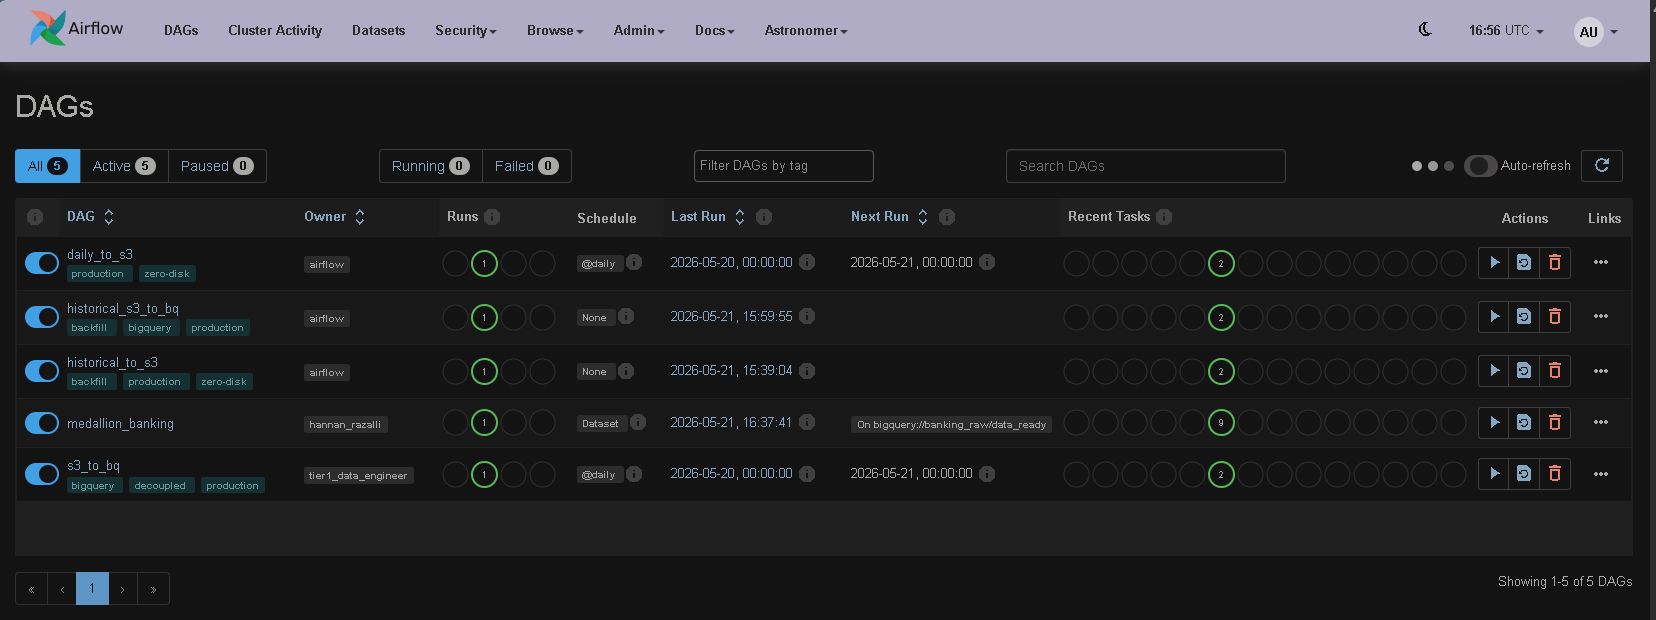
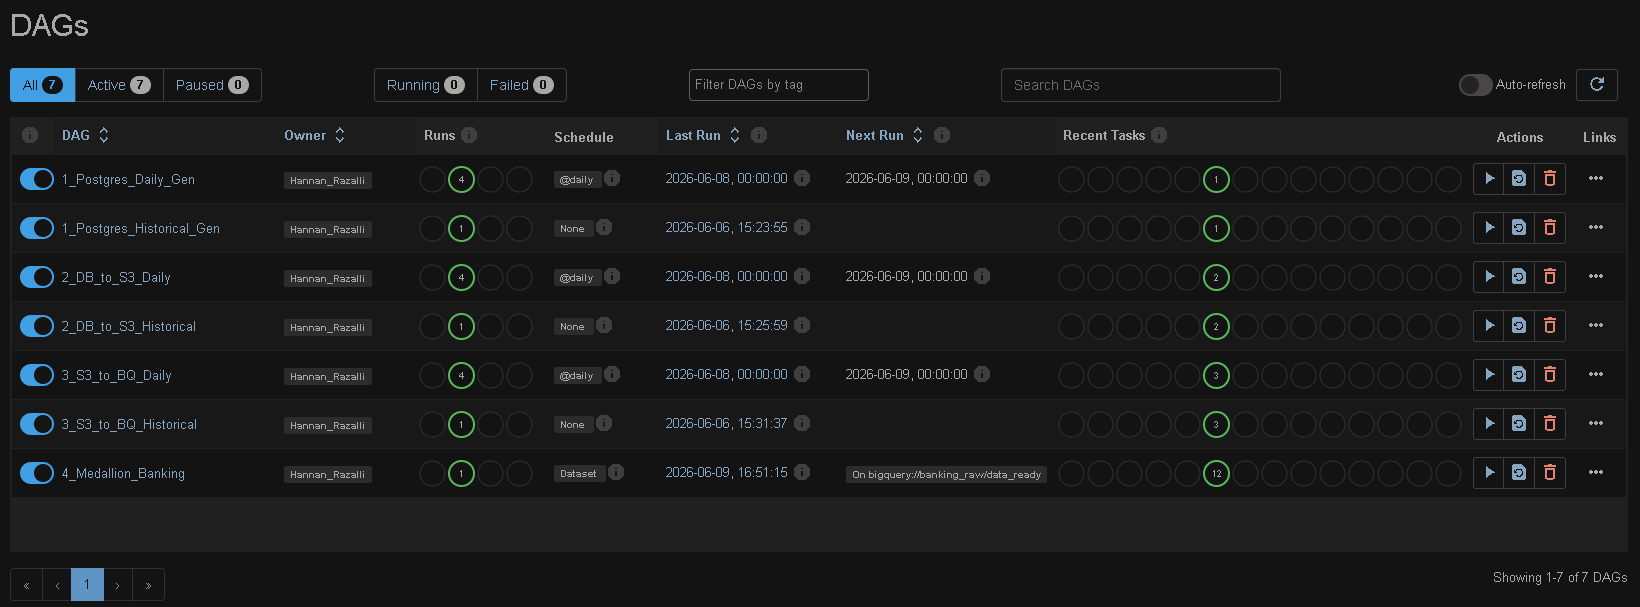
Update readme images

diff --git a/dags/2_s3_to_bq_historical.py b/dags/2_s3_to_bq_historical.py
@@ -9,9 +9,9 @@ from airflow.operators.python import PythonOperator
 from include.ingestion.loaders.load_s3_bq import load_transactions, load_accounts, load_forex
 
 default_args = {
-    'owner': 'hannan_razalli',
-    'depends_on_past': False,
-    'retries': 2,
+    "owner" : "Hannan_Razalli",
+    "depends_on_past" : False,
+    "retries" : 2
 }
 
 def historical_tx_to_bq():
@@ -19,7 +19,7 @@ def historical_tx_to_bq():
     bucket_name = os.getenv("S3_BUCKET_NAME")
     keys = s3_hook.list_keys(
         bucket_name = bucket_name,
-        prefix = 'raw/transactions/'
+        prefix = "raw/transactions/"
     )
 
     if keys:
@@ -32,7 +32,7 @@ def historical_acc_to_bq():
     bucket_name = os.getenv("S3_BUCKET_NAME")
     keys = s3_hook.list_keys(
         bucket_name = bucket_name,
-        prefix = 'raw/accounts/'
+        prefix = "raw/accounts/"
     )
 
     if keys:
@@ -45,7 +45,7 @@ def historical_fx_to_bq():
     bucket_name = os.getenv("S3_BUCKET_NAME")
     keys = s3_hook.list_keys(
         bucket_name = bucket_name,
-        prefix = 'raw/forex/'
+        prefix = "raw/forex/"
     )
 
     if keys:
@@ -55,27 +55,27 @@ def historical_fx_to_bq():
 
 with DAG(
     dag_id = '3_S3_to_BQ_Historical',
-    default_args=default_args,
+    default_args = default_args,
     schedule = None,
     start_date = datetime(2026, 5, 1),
     catchup = False
 ) as dag:
     
-    task_hist_transactions = PythonOperator(
+    task_tx_to_bq = PythonOperator(
         task_id = 'Historical_TX_to_BQ',
         python_callable = historical_tx_to_bq
     )
 
-    task_hist_accounts = PythonOperator(
-        task_id = 'Historical_Accounts_to_BQ',
+    task_acc_to_bq = PythonOperator(
+        task_id = 'Historical_Acc_to_BQ',
         python_callable = historical_acc_to_bq
     )
 
-    task_hist_forex = PythonOperator(
-        task_id = 'Historical_Forex_to_BQ',
+    task_fx_to_bq = PythonOperator(
+        task_id = 'Historical_FX_to_BQ',
         python_callable = historical_fx_to_bq
     )
 
-    task_hist_transactions
-    task_hist_accounts
-    task_hist_forex
+    task_tx_to_bq
+    task_acc_to_bq
+    task_fx_to_bq

diff --git a/include/ingestion/loaders/load_s3_bq.py b/include/ingestion/loaders/load_s3_bq.py
@@ -13,7 +13,7 @@ def load_transactions(s3_key: str) -> None:
 
     parquet_bytes = s3_hook.get_key(
         key = s3_key,
-        bucket_name = os.getenv("S3_BUCKET_NAME")
+        bucket_name = bucket_name
     )
 
     df = pd.read_parquet(io.BytesIO(parquet_bytes.get()['Body'].read()))
@@ -33,7 +33,7 @@ def load_accounts(s3_key: str) -> None:
 
     parquet_bytes = s3_hook.get_key(
         key = s3_key,
-        bucket_name = os.getenv("S3_BUCKET_NAME")
+        bucket_name = bucket_name
     )
 
     df = pd.read_parquet(io.BytesIO(parquet_bytes.get()['Body'].read()))
@@ -53,7 +53,7 @@ def load_forex(s3_key: str) -> None:
 
     json_string = s3_hook.read_key(
         key = s3_key,
-        bucket_name = os.getenv("S3_BUCKET_NAME")
+        bucket_name = bucket_name
     )
 
     df = pd.DataFrame([{

diff --git a/dags/0_banking_dag_historical.py b/dags/0_banking_dag_historical.py
@@ -3,8 +3,15 @@ from airflow.operators.python import PythonOperator
 from datetime import datetime
 from include.ingestion.generators.postgres_historical import historical_to_postgres
 
+default_args = {
+    'owner': 'Hannan_Razalli',
+    'depends_on_past': False,
+    'retries': 2,
+}
+
 with DAG(
     dag_id='1_Postgres_Historical_Gen',
+    default_args = default_args,
     schedule=None,
     start_date=datetime(2026, 5, 1),
     catchup=False

diff --git a/dags/0_banking_dag_daily.py b/dags/0_banking_dag_daily.py
@@ -3,8 +3,15 @@ from airflow.operators.python import PythonOperator
 from datetime import datetime
 from include.ingestion.generators.postgres_daily import daily_to_postgres
 
+default_args = {
+    'owner': 'Hannan_Razalli',
+    'depends_on_past': False,
+    'retries': 2,
+}
+
 with DAG(
     dag_id='1_Postgres_Daily_Gen',
+    default_args = default_args,
     schedule_interval='@daily',
     start_date=datetime(2026, 6, 5),
     catchup=False

diff --git a/dags/2_s3_to_bq_daily.py b/dags/2_s3_to_bq_daily.py
@@ -22,7 +22,7 @@ from include.ingestion.loaders.load_s3_bq import load_transactions, load_account
 bq_raw_ready = Dataset("bigquery://banking_raw/data_ready")
 
 default_args = {
-    'owner': 'hannan_razalli',
+    'owner': 'Hannan_Razalli',
     'depends_on_past': False,
     'retries': 2,
 }

diff --git a/dags/1_db_to_s3_daily.py b/dags/1_db_to_s3_daily.py
@@ -15,7 +15,7 @@ default_args = {
     'retries' : 2
 }
 
-POSTRGES_CONN = os.getenv("POSTGRES_CONN_ID", "postgres_default")
+POSTGRES_CONN = os.getenv("POSTGRES_CONN_ID", "postgres_default")
 AWS_CONN = os.getenv("AWS_CONN_ID", "aws_default")
 BUCKET_NAME = os.getenv("S3_BUCKET_NAME")
 

diff --git a/dags/3_medallion_banking.py b/dags/3_medallion_banking.py
@@ -52,7 +52,7 @@ dbtdag = DbtDag(
     catchup=False,
     dag_id="4_Medallion_Banking",
     default_args={
-        "owner" : "hannan_razalli",
+        "owner" : "Hannan_Razalli",
         "retries" : 2
     }
 )

diff --git a/README.md b/README.md
@@ -5,6 +5,8 @@ This project is an end-to-end data engineering pipeline designed to process dail
 
 ## 🏗 Architecture & Tech Stack
 
+![Architecture & Tech Stack](images/Architecture.png)
+
 * **Source System (OLTP):** PostgreSQL (Local / Containerized)
 * **Orchestration:** Apache Airflow (Astronomer Cosmos)
 * **Data Warehouse:** Google BigQuery (Native Tables)
